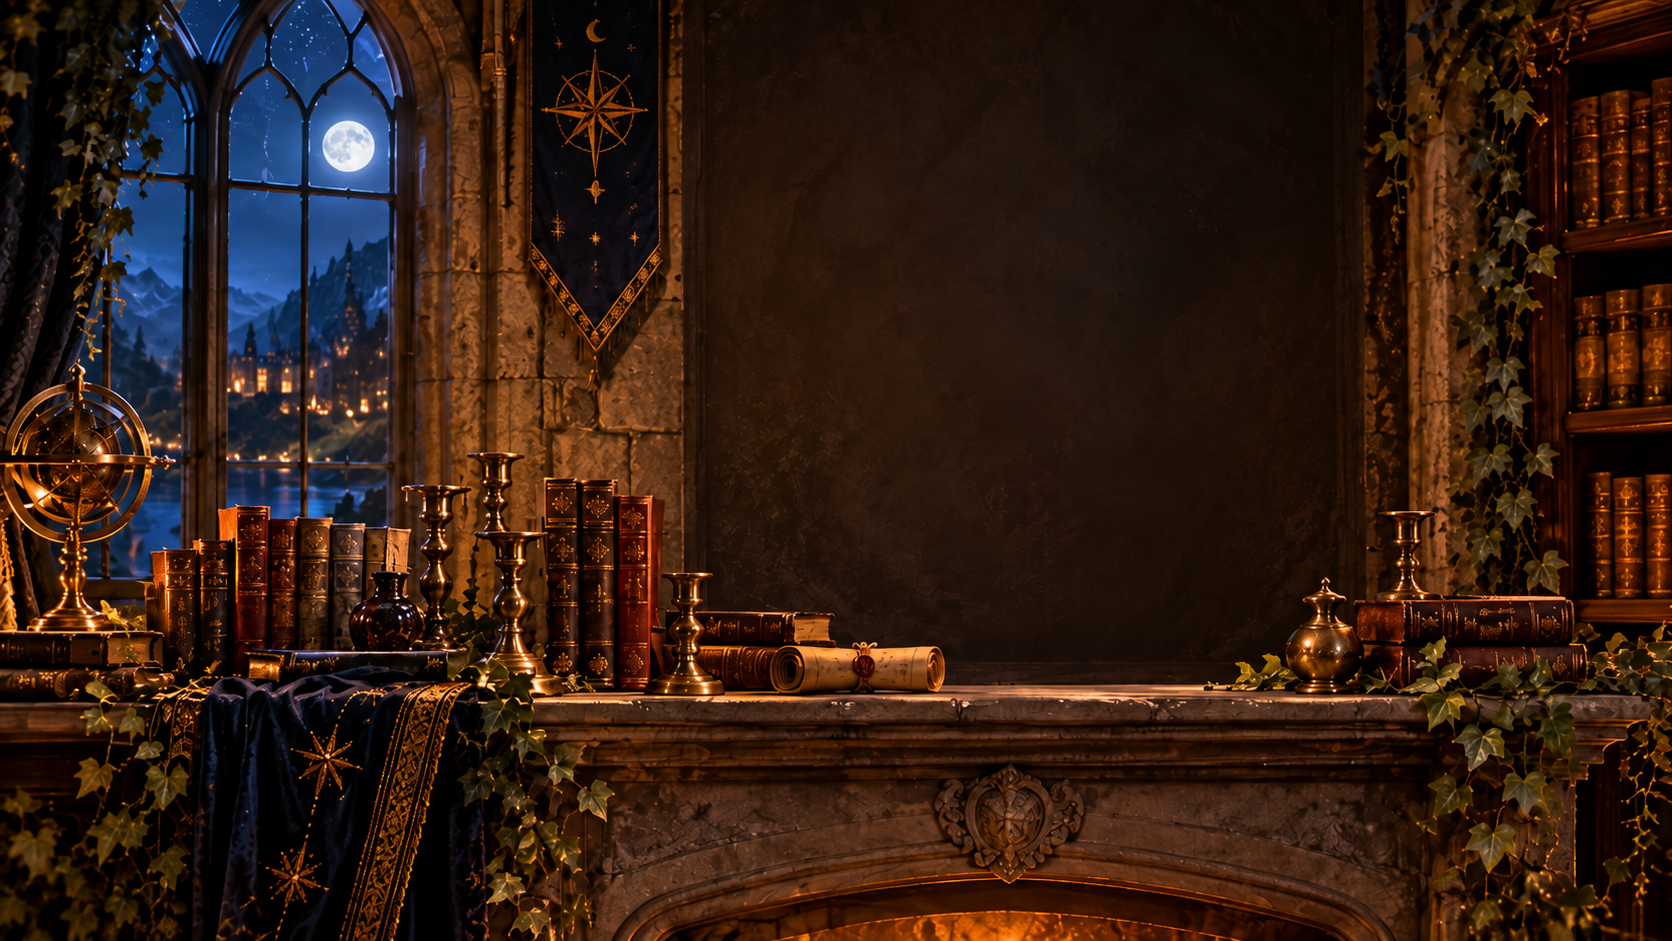
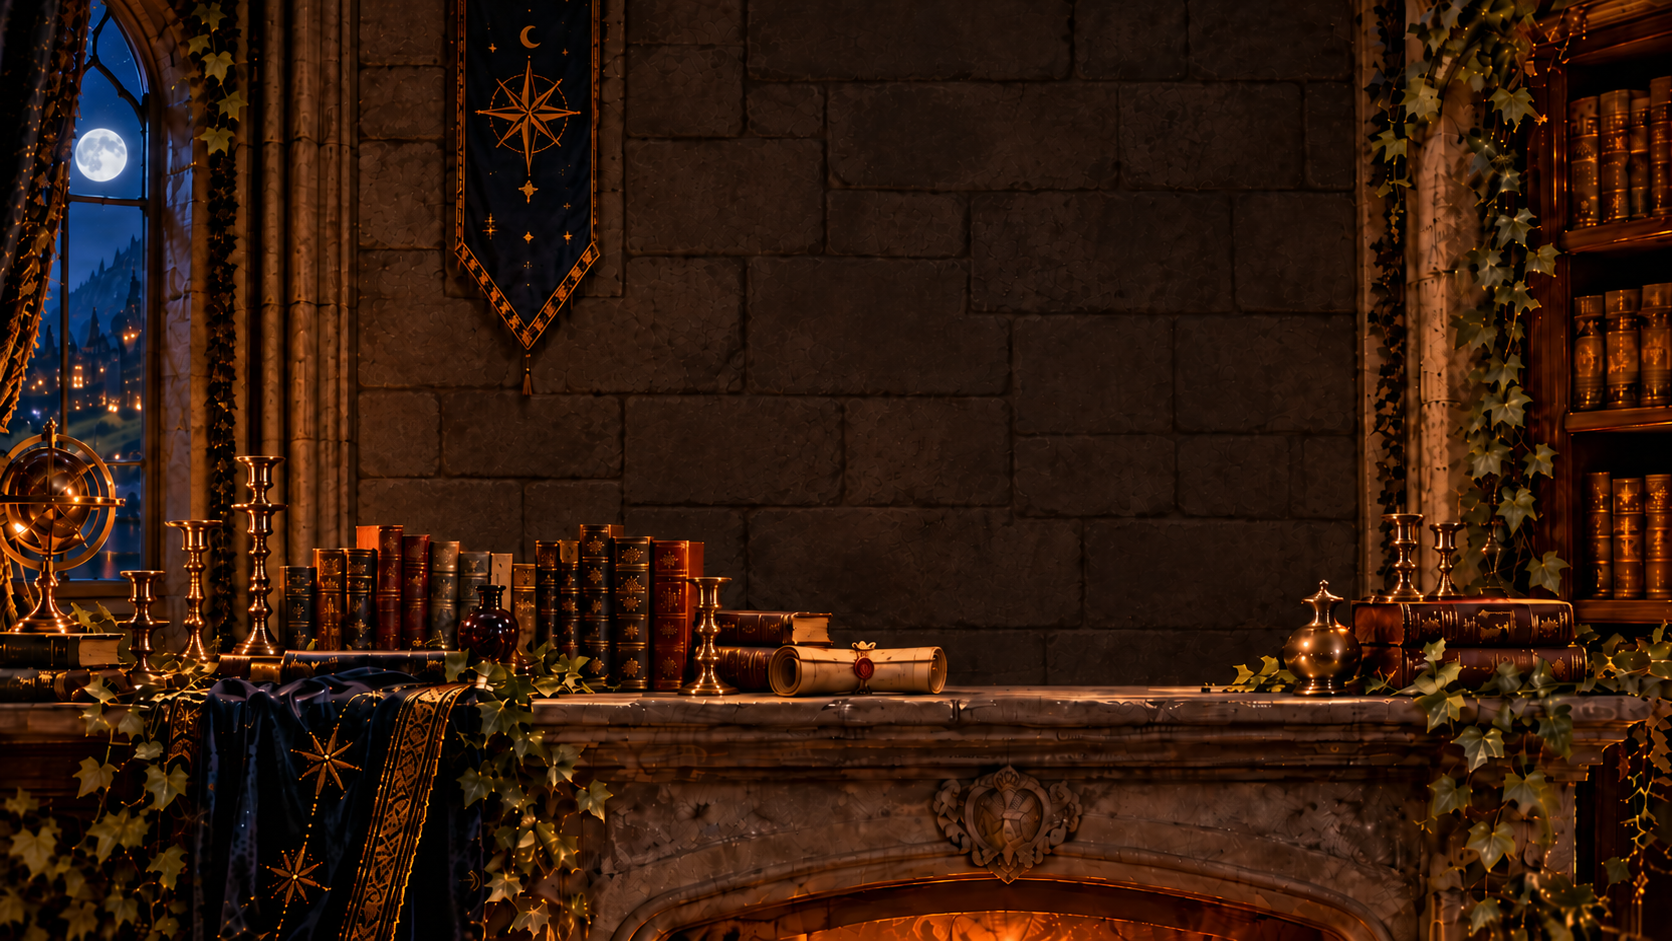
Use the new room for the home hero
The hero's candles stand in the new room's candlesticks, with the flames
drawn behind the owl so it stands in front of the candle beside it. The
lit version of the room is kept as a reference.

diff --git a/lib/hero-scene.ts b/lib/hero-scene.ts
@@ -4,17 +4,17 @@ export const heroRoom = { src: '/images/hero-room.webp', w: 1672, h: 941 }
 
 export const heroFlames = {
   src: '/images/hero-flames.webp',
-  w: 315,
-  h: 145,
+  w: 307,
+  h: 151,
   // x, y, w, h on the room; the flame's base, as a share of its height; its box in the image
   flames: [
-    { x: 426.4, y: 354.91, w: 16.55, h: 45.52, base: 0.99, atlas: [4, 4, 50, 137] },
-    { x: 491.36, y: 379.83, w: 13.53, h: 29.84, base: 0.987, atlas: [58, 4, 41, 90] },
-    { x: 677.31, y: 466.79, w: 14.47, h: 35.74, base: 0.988, atlas: [103, 4, 43, 107] },
-    { x: 743.14, y: 548.57, w: 10, h: 21.71, base: 0.987, atlas: [150, 4, 30, 65] },
-    { x: 122.35, y: 564.84, w: 14.74, h: 33.26, base: 0.987, atlas: [184, 4, 44, 100] },
-    { x: 1400.01, y: 422.09, w: 12.27, h: 31.91, base: 0.987, atlas: [232, 4, 37, 96] },
-    { x: 1620.26, y: 158, w: 12.62, h: 27.05, base: 0.987, atlas: [273, 4, 38, 81] },
+    { x: 253.12, y: 317.1, w: 17.38, h: 47.79, base: 0.99, atlas: [4, 4, 52, 143] },
+    { x: 191.22, y: 439.41, w: 14.62, h: 32.26, base: 0.987, atlas: [60, 4, 44, 97] },
+    { x: 136.4, y: 503.57, w: 12.13, h: 21.91, base: 0.982, atlas: [108, 4, 36, 66] },
+    { x: 705.65, y: 494.83, w: 11.57, h: 28.6, base: 0.988, atlas: [148, 4, 35, 86] },
+    { x: 1401.18, y: 429.36, w: 11.59, h: 30.14, base: 0.987, atlas: [187, 4, 35, 90] },
+    { x: 1439.38, y: 445.69, w: 11.54, h: 22.69, base: 0.983, atlas: [226, 4, 35, 68] },
+    { x: 1620.26, y: 158, w: 12.62, h: 27.05, base: 0.987, atlas: [265, 4, 38, 81] },
   ],
 }
 

diff --git a/components/HeroScene.tsx b/components/HeroScene.tsx
@@ -52,8 +52,10 @@ function Flames() {
 export default function HeroScene() {
   return (
     <div className={s.scene} aria-hidden="true">
-      <HeroOwl style={{ left: pct(heroOwl.x, W), top: pct(heroOwl.y, H), width: pct(heroOwl.w, W), height: pct(heroOwl.h, H) }} />
+
+      {/* Flames first, so the owl stands in front of the candle behind it */}
       <Flames />
+      <HeroOwl style={{ left: pct(heroOwl.x, W), top: pct(heroOwl.y, H), width: pct(heroOwl.w, W), height: pct(heroOwl.h, H) }} />
     </div>
   )
 }
